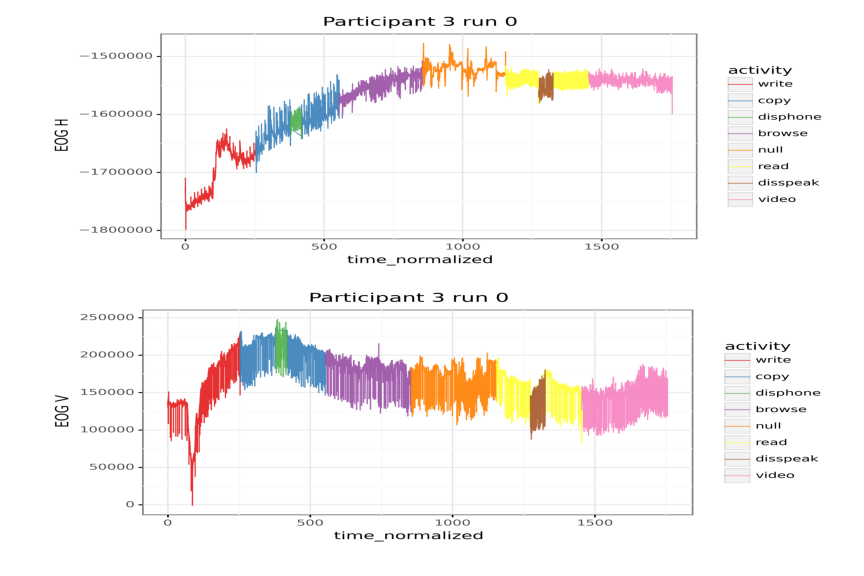
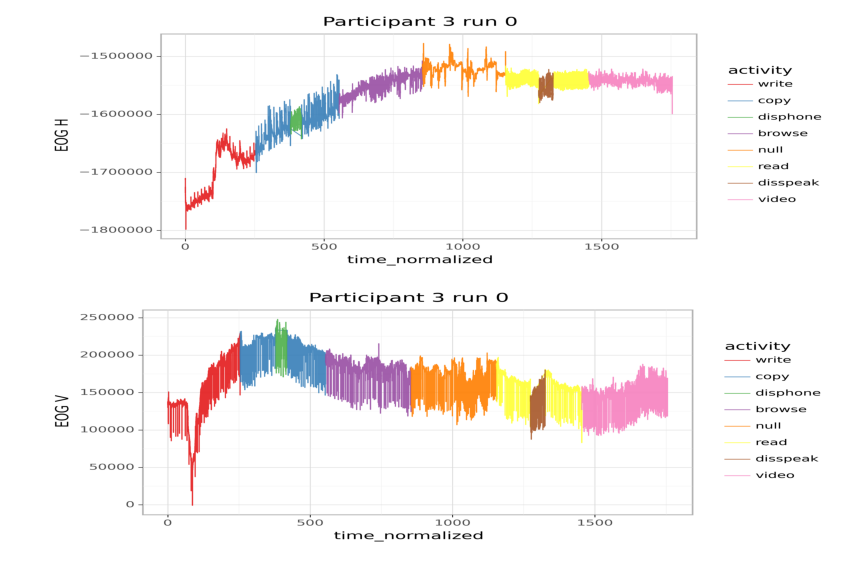
updated median filter plots and function; added section for baseline drift removal

Changed region(s): [[0.8438, 0.2188, 0.875, 0.25]]

diff --git a/utils/bwr.py b/utils/bwr.py
@@ -1,0 +1,38 @@
+import numpy as np
+import pywt
+
+# source https://github.com/spebern/py-bwr
+
+def calc_baseline(signal):
+    """
+    Calculate the baseline of signal.
+    Args:
+        signal (numpy 1d array): signal whose baseline should be calculated
+    Returns:
+        baseline (numpy 1d array with same size as signal): baseline of the signal
+    """
+
+    ssds = np.zeros((3))
+
+    cur_lp = np.copy(signal)
+    iterations = 0
+    while True:
+        # Decompose 1 level
+        lp, hp = pywt.dwt(cur_lp, "db4")
+
+        # Shift and calculate the energy of detail/high pass coefficient
+        ssds = np.concatenate(([np.sum(hp ** 2)], ssds[:-1]))
+
+        # Check if we are in the local minimum of energy function of high-pass signal
+        if ssds[2] > ssds[1] and ssds[1] < ssds[0]:
+            break
+
+        cur_lp = lp[:]
+        iterations += 1
+
+    # Reconstruct the baseline from this level low pass signal up to the original length
+    baseline = cur_lp[:]
+    for _ in range(iterations):
+        baseline = pywt.idwt(baseline, np.zeros((len(baseline))), "db4")
+
+    return baseline[: len(signal)]
